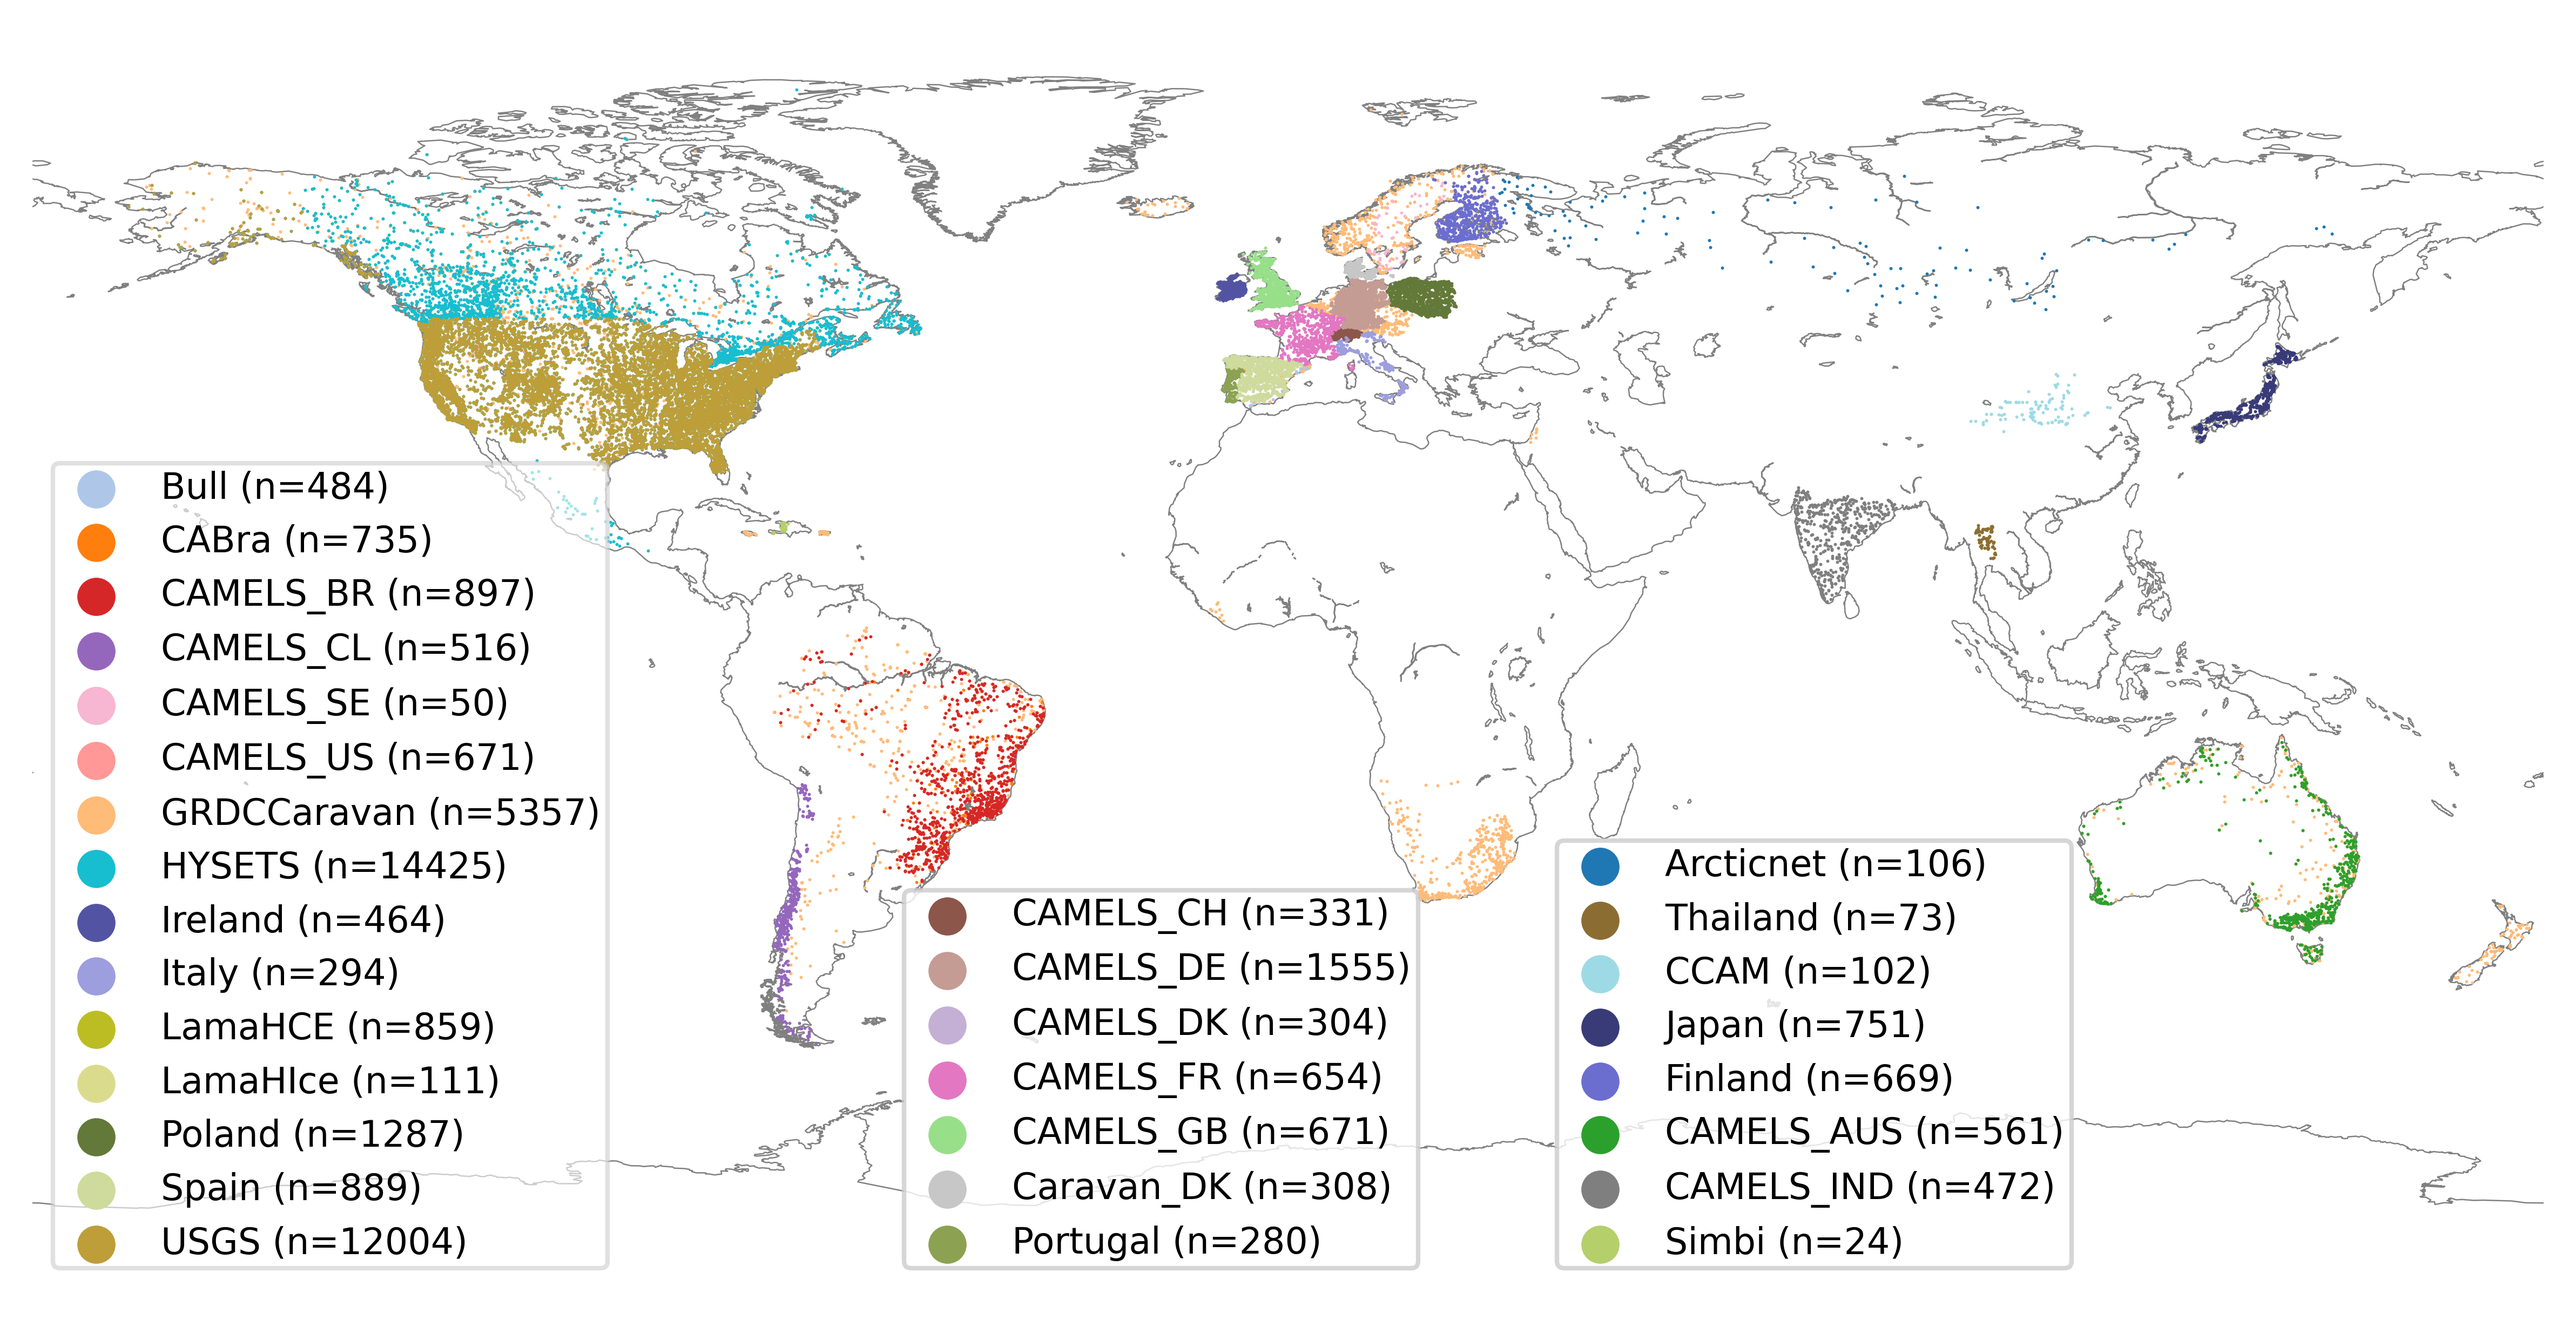
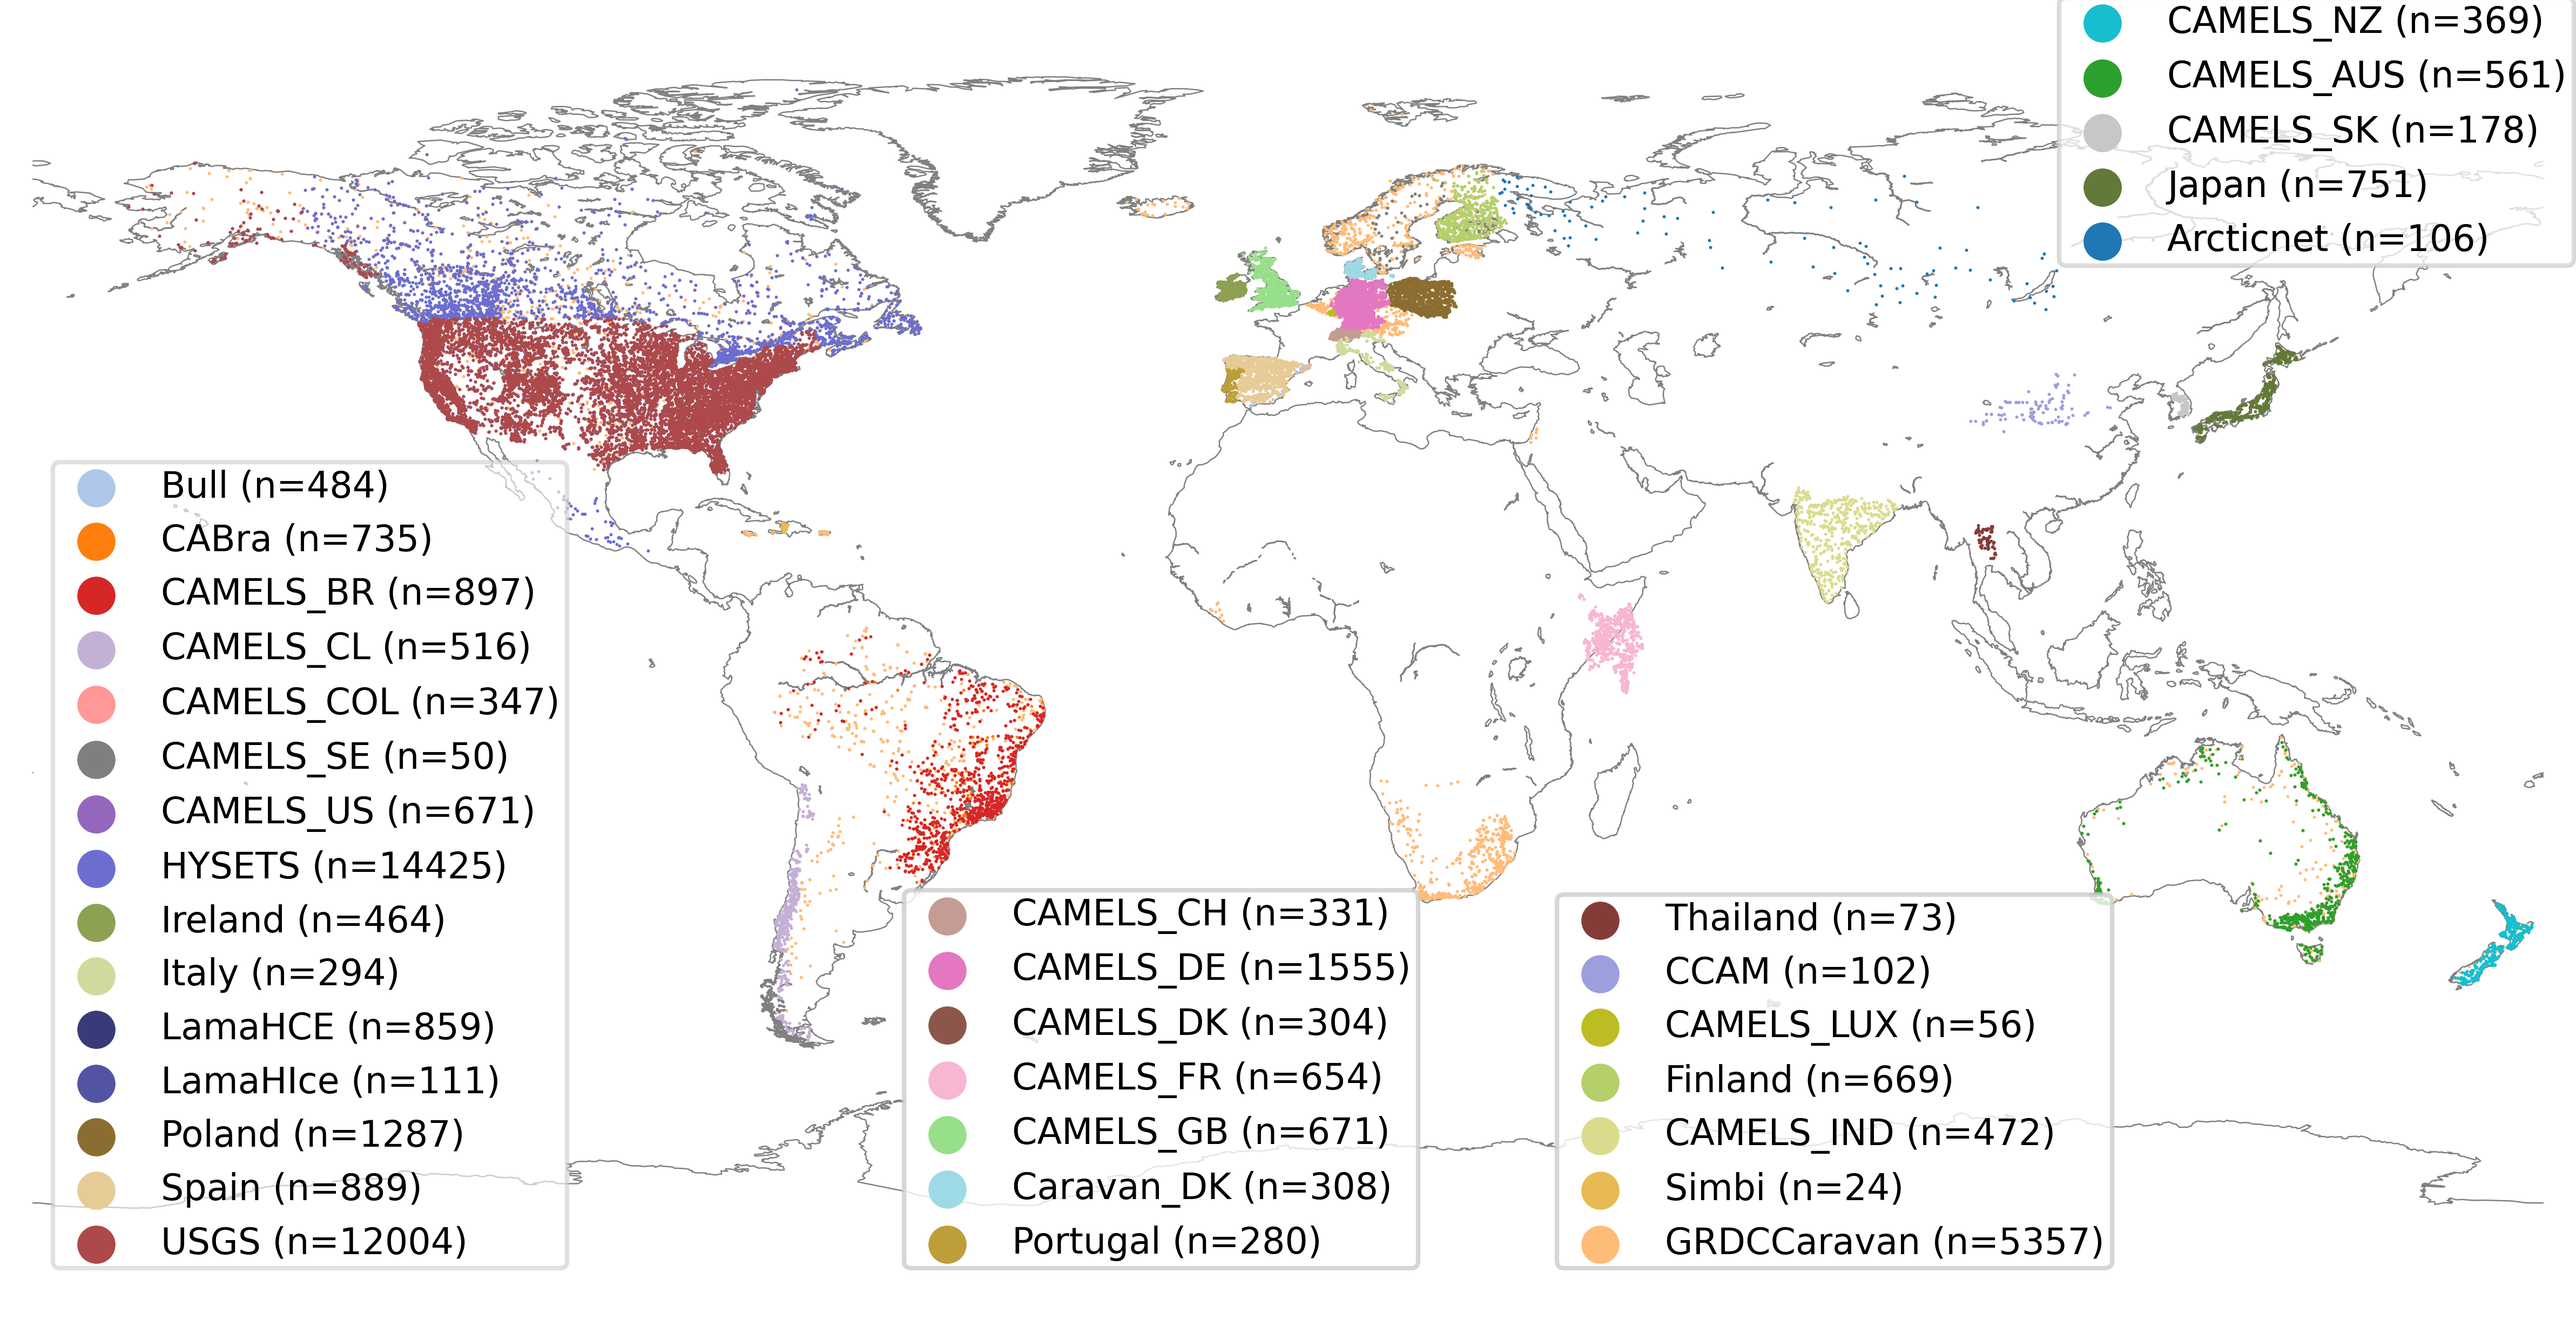
updated link for grimedb data

diff --git a/aqua_fetch/wq/_grimedb.py b/aqua_fetch/wq/_grimedb.py
@@ -25,12 +25,28 @@ class GRiMeDB(Datasets):
     >>> ds.stn_coords()
     >>> ds.shape
     5029, 2
+    >>> conc = ds.concentrations(streams=['Indus River'])
+    >>> conc.shape
+    (2, 59)    
+    >>> conc = ds.concentrations(parameters=['Q', 'NO3', 'NH4', 'TN', 'SRP', 'TP', 'DOC'])
+    >>> conc.shape
+    (25052, 7)
+    >>> fluxes = ds.fluxes()
+    >>> fluxes.shape
+    (7298, 52)
+    >>> fluxes['Site_ID'].nunique()
+    1903
+    >>> sites = ds.sites()
+    >>> sites['Site_ID'].nunique()
+    5029
+    >>> sites['Stream_Name'].nunique()
+    2722    
     """
     url = {
-        "concentrations.csv": "https://portal.edirepository.org/nis/dataviewer?packageid=knb-lter-ntl.420.1&entityid=ba3e270bcab8ace5d157c995e4b791e4",
-        "fluxes.csv": "https://portal.edirepository.org/nis/dataviewer?packageid=knb-lter-ntl.420.1&entityid=1a559f00566ed9f9f33ccb0daab0bef5",
-        "sites.csv": "https://portal.edirepository.org/nis/dataviewer?packageid=knb-lter-ntl.420.1&entityid=3faa64303d5f5bcd043bb88f6768e603",
-        "sources.csv": "https://portal.edirepository.org/nis/dataviewer?packageid=knb-lter-ntl.420.1&entityid=3615386d27a2d148be09e70ac22799e4"
+        "concentrations.csv": "https://pasta.lternet.edu/package/data/eml/knb-lter-ntl/420/2/ba3e270bcab8ace5d157c995e4b791e4",
+        "fluxes.csv": "https://pasta.lternet.edu/package/data/eml/knb-lter-ntl/420/2/1a559f00566ed9f9f33ccb0daab0bef5",
+        "sites.csv": "https://pasta.lternet.edu/package/data/eml/knb-lter-ntl/420/2/3faa64303d5f5bcd043bb88f6768e603",
+        "sources.csv": "https://pasta.lternet.edu/package/data/eml/knb-lter-ntl/420/2/3615386d27a2d148be09e70ac22799e4",
     }
 
     def __init__(self, path=None, **kwargs):
@@ -111,7 +127,7 @@ class GRiMeDB(Datasets):
         elif streams != "all":
             streams = check_attributes(streams, self.streams, 'streams')
             sites = self.sites()
-            stations = sites.loc[sites['Stream_Name'].isin(streams), 'Site_ID'].values.tolist()
+            stations = sites.loc[sites['Stream_Name'].isin(streams), 'Site_ID'].values.astype(int).tolist()
             df = df[df['Site_ID'].isin(stations)]
         
         if parameters != "all":

diff --git a/aqua_fetch/rr/_camels.py b/aqua_fetch/rr/_camels.py
@@ -3446,10 +3446,10 @@ class CAMELS_COL(_RainfallRunoff):
     >>> coords.shape
         (347, 2)
     >>> dataset.stn_coords('35067040')  # returns coordinates of station whose id is 35067040
-        -45.945599	170.101486
+        4.746433	-73.587807
     >>> dataset.stn_coords(['35067040', '21187030'])  # returns coordinates of two stations
-    35067040	-45.945599	170.101486
-    21187030	-34.918594	173.170761
+    35067040	4.746433	-73.587807
+    21187030	4.203826	-75.092720
 
     """
     url = "https://zenodo.org/records/15554735"
@@ -3471,6 +3471,10 @@ class CAMELS_COL(_RainfallRunoff):
             self._maybe_to_netcdf(f'camels_lux_dyn')
         
         self._create_boundary_id_map(self.boundary_file, 0)
+
+    @property
+    def bbox(self) -> Dict[str, float]:
+        return dict(llcrnrlon=-80, llcrnrlat=-5, urcrnrlon=-65, urcrnrlat=12)
 
     @property
     def boundary_file(self) -> os.PathLike:
@@ -3647,6 +3651,11 @@ class CAMELS_COL(_RainfallRunoff):
         for col, fac in  self.static_factors.items():
             if col in static_data.columns:
                 static_data[col] *= fac
+
+        # convert latitude and longitude from EPSG:3395 to EPSG:4326
+        R = 6378137.0   # Earth's radius in meters for EPSG:3395
+        static_data[gauge_longitude()] = np.degrees(static_data[gauge_longitude()] / R)
+        static_data[gauge_latitude()] = np.degrees(2 * np.arctan(np.exp(static_data[gauge_latitude()] / R)) - np.pi / 2)
 
         return static_data    
 

diff --git a/paper/paper.md b/paper/paper.md
@@ -28,7 +28,7 @@ bibliography: paper.bib
 # Summary 
 AquaFetch is a Python package designed for the automated downloading, parsing, cleaning, and harmonization of freely available water resource datasets related to rainfall-runoff processes, surface water quality, and wastewater treatment. The package currently supports 70 datasets, downloading and transforming raw data into consistent, easy-to-use analysis-ready data. This allows users to directly access and utilize the data without labor-intensive and time-consuming preprocessing.
 
-The package comprises three submodules, each representing a different type of water resource data: `rr` for rainfall-runoff processes, `wq` for surface water quality, and `wwt` for wastewater treatment. The rr submodule offers data for 47,716 catchments from 32 sources worldwide, encompassing both dynamic and static features for each catchment (\autoref{fig1}). The dynamic features consist of observed streamflow and meteorological time series, averaged over the catchment area, available at daily or hourly time steps. Static features include constant parameters such as land use, soil, topography, and other physiographical characteristics in tabular format, along with catchment boundaries as shapefiles. This submodule not only provides access to established rainfall-runoff datasets such as CAMELS [@camels_addor_2017] and LamaH [@lamahce_klingler] but also introduces 10 new datasets compiled for the first time from publicly accessible online data sources. The `wq` submodule offers access to 16 surface water quality datasets, each containing various water quality parameters measured across different spaces and times (\autoref{fig2}). The `wwt` submodule provides access to 22,471 experimental measurements related to wastewater treatment techniques such as adsorption, photocatalysis, and sonolysis.
+The package comprises three submodules, each representing a different type of water resource data: `rr` for rainfall-runoff processes, `wq` for surface water quality, and `wwt` for wastewater treatment. The rr submodule offers data for 46,854 catchments from 34 sources worldwide, encompassing both dynamic and static features for each catchment (\autoref{fig1}). The dynamic features consist of observed streamflow and meteorological time series, averaged over the catchment area, available at daily or hourly time steps. Static features include constant parameters such as land use, soil, topography, and other physiographical characteristics in tabular format, along with catchment boundaries as shapefiles. This submodule not only provides access to established rainfall-runoff datasets such as CAMELS [@camels_addor_2017] and LamaH [@lamahce_klingler] but also introduces 10 new datasets compiled for the first time from publicly accessible online data sources. The `wq` submodule offers access to 16 surface water quality datasets, each containing various water quality parameters measured across different spaces and times (\autoref{fig2}). The `wwt` submodule provides access to 22,471 experimental measurements related to wastewater treatment techniques such as adsorption, photocatalysis, and sonolysis.
 
 The development of AquaFetch was inspired by the growing availability of diverse water resource datasets in recent years. As a community-driven project, the codebase is structured to allow contributors to easily add new datasets, ensuring the package continues to expand and evolve to meet future needs.
 
@@ -44,7 +44,7 @@ The Caravan initiative [@Caravan] stands out as a global platform for hydro-mete
 
 Ultimately, we hope this package will foster the development of benchmark datasets in hydrological and environmental sciences, enhancing the comparability and reproducibility of data-driven solutions for water resource management.
 
-![Locations of catchment gauge stations covered by each of the 32 rainfall-runoff datasets\label{fig1}](rr_stations.png)
+![Locations of catchment gauge stations covered by each of the 34 rainfall-runoff datasets\label{fig1}](rr_stations.png)
 
 # Implementation and Architecture
 The AquaFetch package is structured using both functional and Object-Oriented Programming (OOP) designs. The OOP design is employed for handling more complex datasets within the `rr` and `wq` submodules, while simpler datasets are managed through a functional interface. All datasets in `rr` submodule can be accessed via `RainfallRunoff` class thus offering a unified interface. The package's code is logically organized, with `rr`, `wq`, and `wwt` subdirectories present in both the source code (aqua_fetch) and tests directories. All public classes and functions are accessible from the parent directory, allowing for straightforward imports as shown below:

diff --git a/docs/source/rr.rst b/docs/source/rr.rst
@@ -23,7 +23,7 @@ provides several methods to access static features, dynamic features, or catchme
 boundaries. Although the raw data files for each dataset may come in different formats, 
 the methods to access these features through the :py:class:`aqua_fetch.rr.RainfallRunoff` class remain the same. 
 Individual classes for each dataset are also available and may offer more control to 
-users over specific datasets. However, for most cases, the use of the :py:class:`aqua_fetch.rr.RainfallRunoff` 
+users over specific datasets. However, for most cases, the use of the :py:class:`aqua_fetch.rr.RainfallRunoff`
 class will suffice.
 
 The naming and units of dynamic features in each dataset may vary. However, we have 
@@ -45,7 +45,7 @@ is optional since it initiaties the download of GSHA and EStreams datasets which
 be time-consuming and may not always be necessary.
 
 Certain datasets in this package feature overlapping stations from the same region. 
-For example, both the ``Bull`` and ``Spain`` datasets cover Spain. 
+For example, both the :py:class:`aqua_fetch.Bull` and ``Spain`` datasets cover Spain. 
 However, the Bull dataset was introduced by by `Aparicio et al., 2024 <https://doi.org/10.1038/s41597-024-03594-5>`_ , 
 whereas the Spain dataset was introduced in this work. The Spain dataset contains 
 more stations, totaling 889, while the Bull dataset includes 484 stations.
